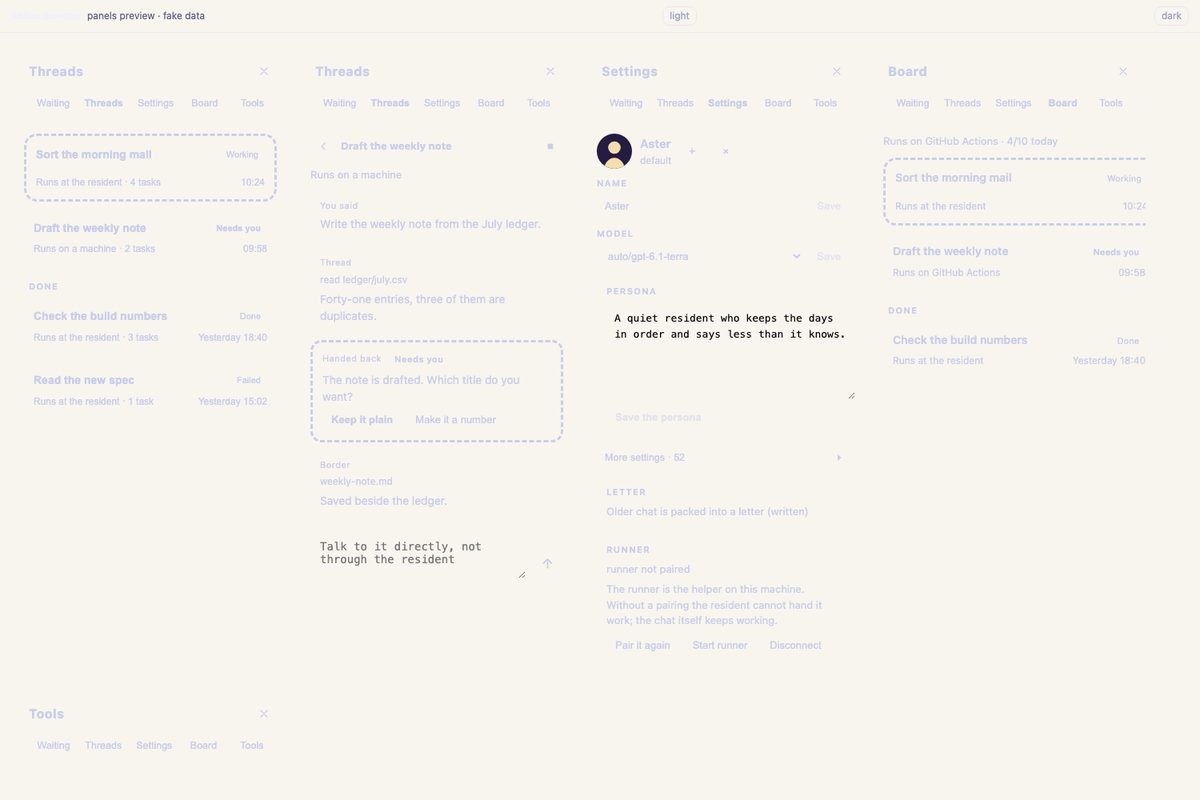
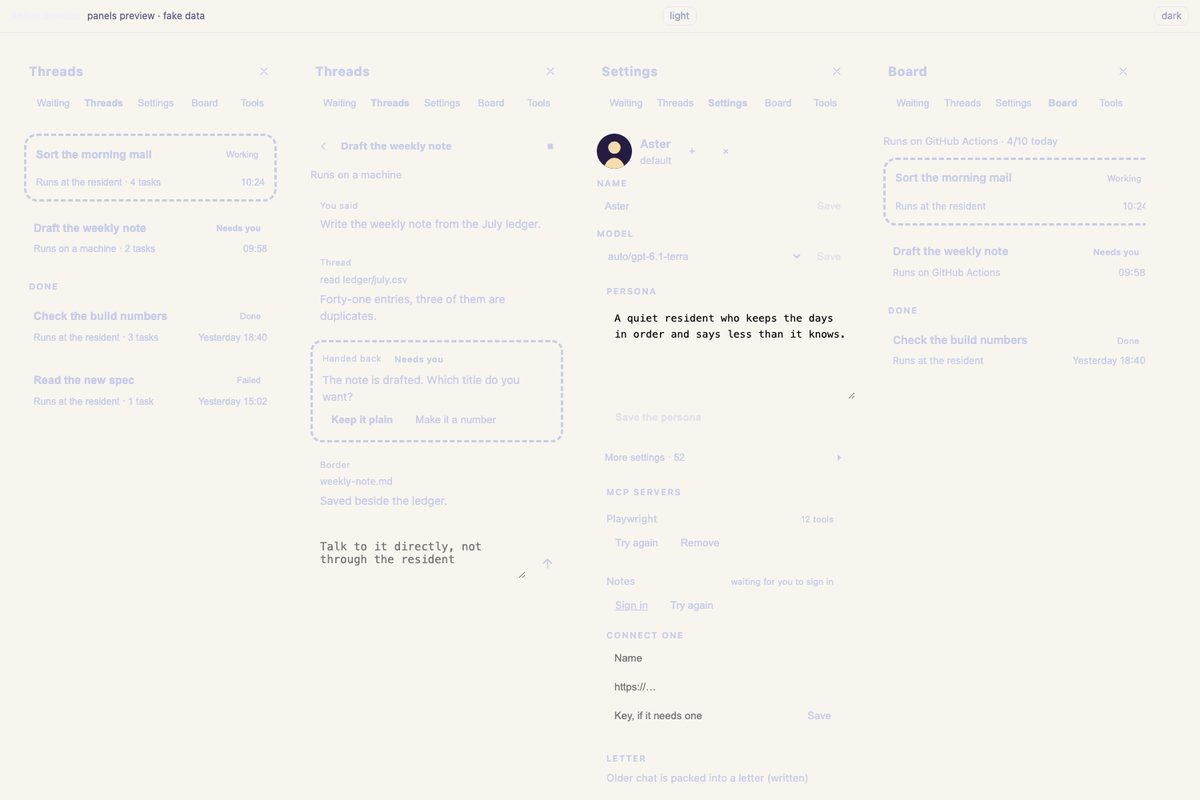
Desktop: MCP servers in Settings
The Settings panel lists what the resident is connected to through MCP — name, host, how it stands, the tool
count, an address to sign in at when it waits for one — and offers Try again and Remove per server, plus a
form to connect one (name, address, key). /web/mcp, /web/mcp/retry and /web/mcp/remove are allowed through
the host; client/mcp.mjs (with test/mcp.test.mjs) holds the parts that can be tested.

Checked in a throwaway profile: the panel shows the empty state ('no MCP server is connected') for this
resident, which has none. npm test: 67 pass, 1 skipped.

diff --git a/packages/desktop/client.js b/packages/desktop/client.js
@@ -573,6 +573,15 @@ var WORDS = {
     usage: "Usage",
     alarms: "Alarms",
     search: "Search the conversation",
+    mcp: "MCP servers",
+    noMcp: "No MCP server is connected.",
+    addMcp: "Connect one",
+    mcpName: "Name",
+    mcpKey: "Key, if it needs one",
+    tools: "tools",
+    signIn: "Sign in",
+    retryIt: "Try again",
+    drop: "Remove",
     group: "Group",
     writeGroup: "Say something to the group",
     speaking: "someone is answering",
@@ -673,6 +682,15 @@ var WORDS = {
     usage: "用量",
     alarms: "闹钟",
     search: "搜聊天记录",
+    mcp: "MCP 工具",
+    noMcp: "没接 MCP。",
+    addMcp: "接一个",
+    mcpName: "名字",
+    mcpKey: "钥匙（要的话）",
+    tools: "个工具",
+    signIn: "去登录",
+    retryIt: "重试",
+    drop: "删掉",
     group: "群聊",
     writeGroup: "对群里说点什么",
     speaking: "有人在回",
@@ -1654,6 +1672,31 @@ function BoardPanel() {
 // client/panel-settings.mjs
 var import_react11 = require("react");
 
+// client/mcp.mjs
+function hostOf(url) {
+  try {
+    return new URL(String(url || "")).host || String(url || "");
+  } catch {
+    return String(url || "");
+  }
+}
+function mcpState(state) {
+  return { ready: "connected", authenticating: "waiting for you to sign in", "not-connected": "not connected", error: "not connected", failed: "not connected" }[state] || state || "";
+}
+function mcpRows(servers = []) {
+  return (servers || []).filter(Boolean).map((s) => ({
+    id: s.id,
+    name: s.name || hostOf(s.url),
+    host: hostOf(s.url),
+    state: s.state,
+    word: mcpState(s.state),
+    tools: Number(s.tools) || 0,
+    error: s.error || "",
+    authUrl: s.authUrl || "",
+    hasKey: Boolean(s.hasKey)
+  }));
+}
+
 // client/settings.mjs
 var LABELS = {
   RESIDENT_NAME: "Name",
@@ -1743,6 +1786,8 @@ function SettingsPanel() {
   const [savedModel, setSavedModel] = (0, import_react11.useState)("");
   const [rows, setRows] = (0, import_react11.useState)([]);
   const [letter, setLetter] = (0, import_react11.useState)(null);
+  const [mcp, setMcp] = (0, import_react11.useState)(null);
+  const [newMcp, setNewMcp] = (0, import_react11.useState)({ name: "", url: "", key: "" });
   const [persona, setPersona] = (0, import_react11.useState)("");
   const [draft, setDraft] = (0, import_react11.useState)("");
   const [open, setOpen] = (0, import_react11.useState)(false);
@@ -1759,6 +1804,10 @@ function SettingsPanel() {
       web("/web/letter", { resident })
     ]);
     if (lt.status === "fulfilled") setLetter(lt.value);
+    try {
+      setMcp(mcpRows((await web("/web/mcp", { resident }))?.servers));
+    } catch {
+    }
     if (c.status === "fulfilled") {
       const list = settingRows(c.value);
       setRows(list);
@@ -1861,6 +1910,61 @@ function SettingsPanel() {
     ),
     (0, import_react11.createElement)("button", { type: "button", className: "ad-set-fold", "aria-expanded": open, onClick: () => setOpen((v) => !v) }, `${t.moreSettings} · ${rows.length}`, (0, import_react11.createElement)("span", null, open ? "▾" : "▸")),
     open && rows.filter((row) => row.key !== "RESIDENT_NAME").map((row) => (0, import_react11.createElement)(Row, { key: row.key, row, resident })),
+    (0, import_react11.createElement)(
+      "div",
+      { className: "ad-me-block" },
+      (0, import_react11.createElement)("p", { className: "ad-me-label" }, t.mcp),
+      mcp === null ? (0, import_react11.createElement)("p", { className: "ad-hint" }, "…") : mcp.length === 0 ? (0, import_react11.createElement)("p", { className: "ad-hint" }, t.noMcp) : mcp.map((server) => (0, import_react11.createElement)(
+        "div",
+        { key: server.id, className: "ad-mcp" },
+        (0, import_react11.createElement)(
+          "div",
+          { className: "ad-set-line" },
+          (0, import_react11.createElement)("span", { className: "ad-mcp-name", title: server.host }, server.name),
+          (0, import_react11.createElement)("span", { className: `ad-pill${server.state === "ready" ? " ok" : server.error ? " bad" : ""}` }, server.state === "ready" ? `${server.tools} ${t.tools}` : server.word)
+        ),
+        server.error && (0, import_react11.createElement)("span", { className: "ad-hint" }, server.error),
+        (0, import_react11.createElement)(
+          "div",
+          { className: "ad-links" },
+          server.authUrl && (0, import_react11.createElement)("a", { className: "ad-btn quiet small", href: server.authUrl, target: "_blank", rel: "noopener noreferrer" }, t.signIn),
+          (0, import_react11.createElement)("button", {
+            type: "button",
+            className: "ad-btn quiet small",
+            disabled: Boolean(busy),
+            onClick: act(`mcp-${server.id}`, async () => setMcp(mcpRows((await web("/web/mcp/retry", { method: "POST", body: { id: server.id }, resident }))?.servers)))
+          }, t.retryIt),
+          (0, import_react11.createElement)("button", {
+            type: "button",
+            className: "ad-btn quiet small",
+            disabled: Boolean(busy),
+            onClick: act(`drop-${server.id}`, async () => setMcp(mcpRows((await web("/web/mcp/remove", { method: "POST", body: { id: server.id }, resident }))?.servers)))
+          }, t.drop)
+        )
+      )),
+      (0, import_react11.createElement)(
+        "div",
+        { className: "ad-set-row" },
+        (0, import_react11.createElement)("label", { className: "ad-me-label" }, t.addMcp),
+        (0, import_react11.createElement)("div", { className: "ad-set-line" }, (0, import_react11.createElement)("input", { type: "text", placeholder: t.mcpName, value: newMcp.name, onChange: (e) => setNewMcp({ ...newMcp, name: e.target.value }) })),
+        (0, import_react11.createElement)("div", { className: "ad-set-line" }, (0, import_react11.createElement)("input", { type: "text", placeholder: "https://…", value: newMcp.url, onChange: (e) => setNewMcp({ ...newMcp, url: e.target.value }) })),
+        (0, import_react11.createElement)(
+          "div",
+          { className: "ad-set-line" },
+          (0, import_react11.createElement)("input", { type: "password", placeholder: t.mcpKey, value: newMcp.key, onChange: (e) => setNewMcp({ ...newMcp, key: e.target.value }) }),
+          (0, import_react11.createElement)("button", {
+            type: "button",
+            className: "ad-btn quiet small",
+            disabled: Boolean(busy) || !newMcp.url,
+            onClick: act("add-mcp", async () => {
+              const saved = await web("/web/mcp", { method: "POST", body: { name: newMcp.name, url: newMcp.url, key: newMcp.key }, resident });
+              setMcp(mcpRows(saved?.servers));
+              setNewMcp({ name: "", url: "", key: "" });
+            })
+          }, t.save)
+        )
+      )
+    ),
     (0, import_react11.createElement)(
       "div",
       { className: "ad-me-block" },
@@ -2480,6 +2584,9 @@ button.ad-trow:hover { border-color: var(--line-dash); background: var(--panel-s
 .ad-say textarea { flex: 1; min-width: 0; min-height: 40px; max-height: 30vh; padding: 9px 12px; border-radius: 14px; border: 1px solid var(--line); background: var(--panel-strong); outline: 0; resize: vertical; font-size: 14px; }
 .ad-say textarea:focus { border-color: color-mix(in srgb, var(--accent) 60%, transparent); }
 .ad-say .ad-round { width: 40px; height: 40px; }
+.ad-mcp { display: flex; flex-direction: column; gap: 4px; padding: 8px 0; border-top: 1px solid var(--line-soft); }
+.ad-mcp:first-of-type { border-top: 0; }
+.ad-mcp-name { flex: 1; min-width: 0; font-size: 13px; color: var(--text-1); white-space: nowrap; overflow: hidden; text-overflow: ellipsis; }
 .ad-set-row { display: flex; flex-direction: column; gap: 4px; }
 .ad-set-line { display: flex; align-items: center; gap: 6px; }
 .ad-set-line input, .ad-set-line select { flex: 1; min-width: 0; height: 32px; padding: 0 10px; border-radius: 10px; border: 1px solid var(--line); background: var(--input-bg); color: var(--text-1); font-size: 13px; outline: 0; }

diff --git a/packages/desktop/preview/panels.html b/packages/desktop/preview/panels.html
@@ -108,6 +108,16 @@
         <textarea id="ad-persona" class="ad-me-text" rows="5">A quiet resident who keeps the days in order and says less than it knows.</textarea>
         <div class="ad-links"><button type="button" class="ad-btn small" disabled>Save the persona</button></div></div>
       <button type="button" class="ad-set-fold"><span>More settings · 52</span><span>▸</span></button>
+      <div class="ad-me-block"><p class="ad-me-label">MCP servers</p>
+        <div class="ad-mcp"><div class="ad-set-line"><span class="ad-mcp-name" title="mcp.example.com">Playwright</span><span class="ad-pill ok">12 tools</span></div>
+          <div class="ad-links"><button type="button" class="ad-btn quiet small">Try again</button><button type="button" class="ad-btn quiet small">Remove</button></div></div>
+        <div class="ad-mcp"><div class="ad-set-line"><span class="ad-mcp-name" title="notes.example.com">Notes</span><span class="ad-pill">waiting for you to sign in</span></div>
+          <div class="ad-links"><a class="ad-btn quiet small" href="#">Sign in</a><button type="button" class="ad-btn quiet small">Try again</button></div></div>
+        <div class="ad-set-row"><label class="ad-me-label">Connect one</label>
+          <div class="ad-set-line"><input type="text" placeholder="Name"></div>
+          <div class="ad-set-line"><input type="text" placeholder="https://…"></div>
+          <div class="ad-set-line"><input type="password" placeholder="Key, if it needs one"><button type="button" class="ad-btn quiet small">Save</button></div></div>
+      </div>
       <div class="ad-me-block"><p class="ad-me-label">Letter</p>
         <p class="ad-hint">Older chat is packed into a letter (written)</p></div>
       <div class="ad-me-block"><p class="ad-me-label">Runner</p>
